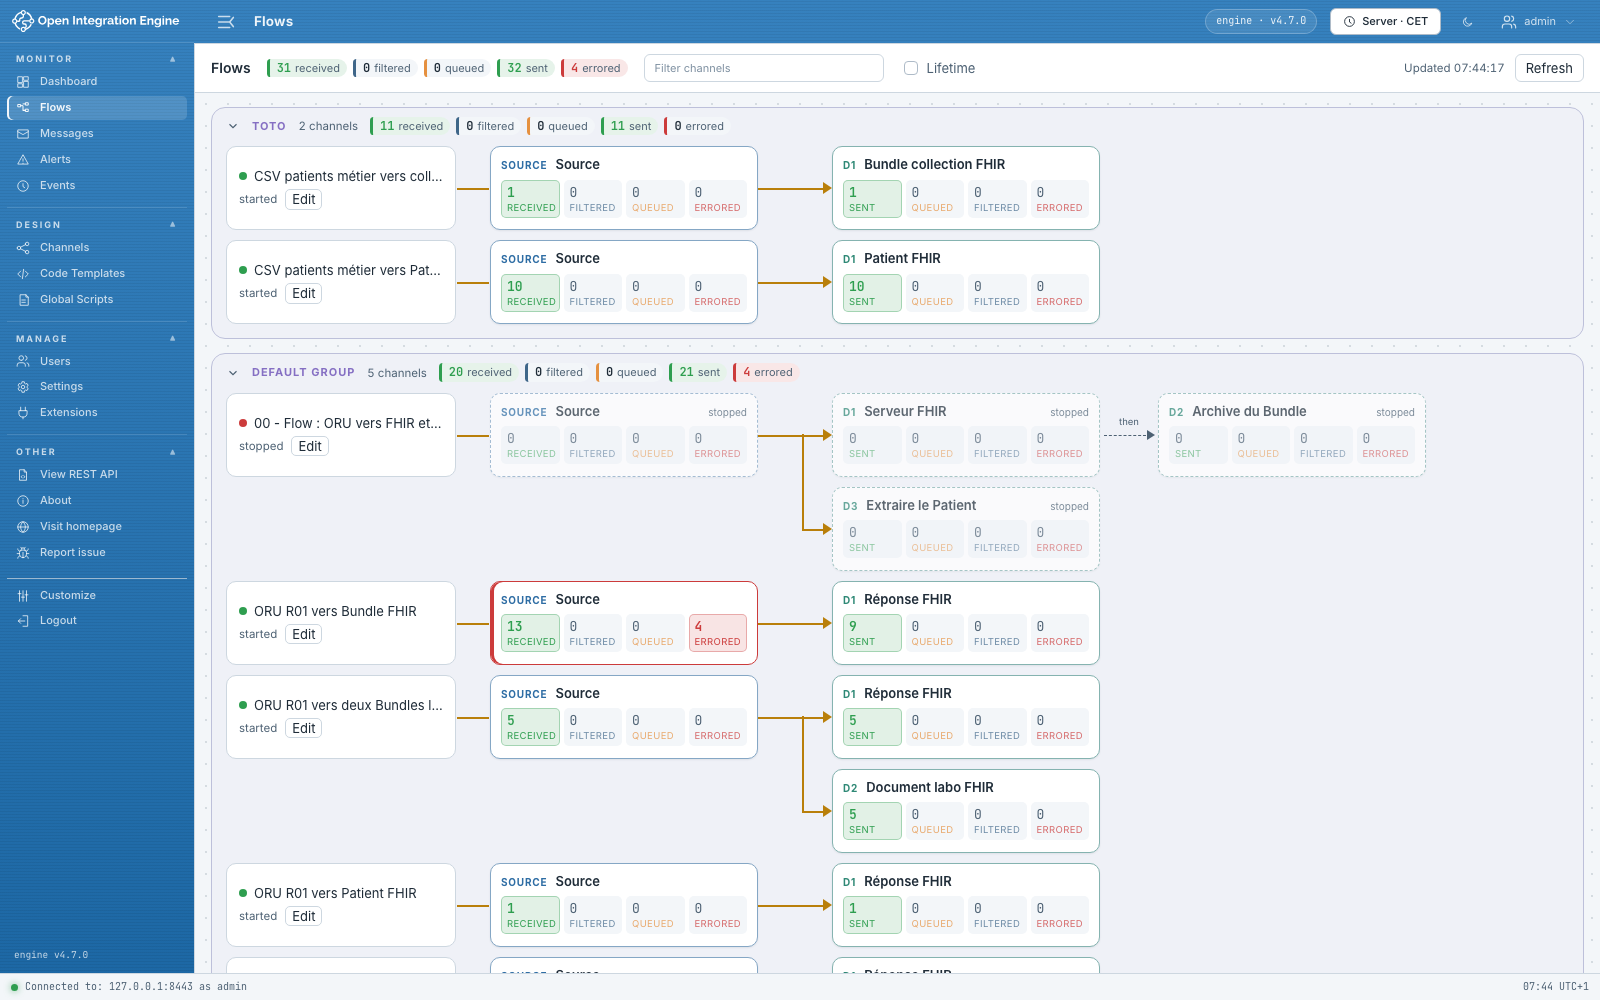
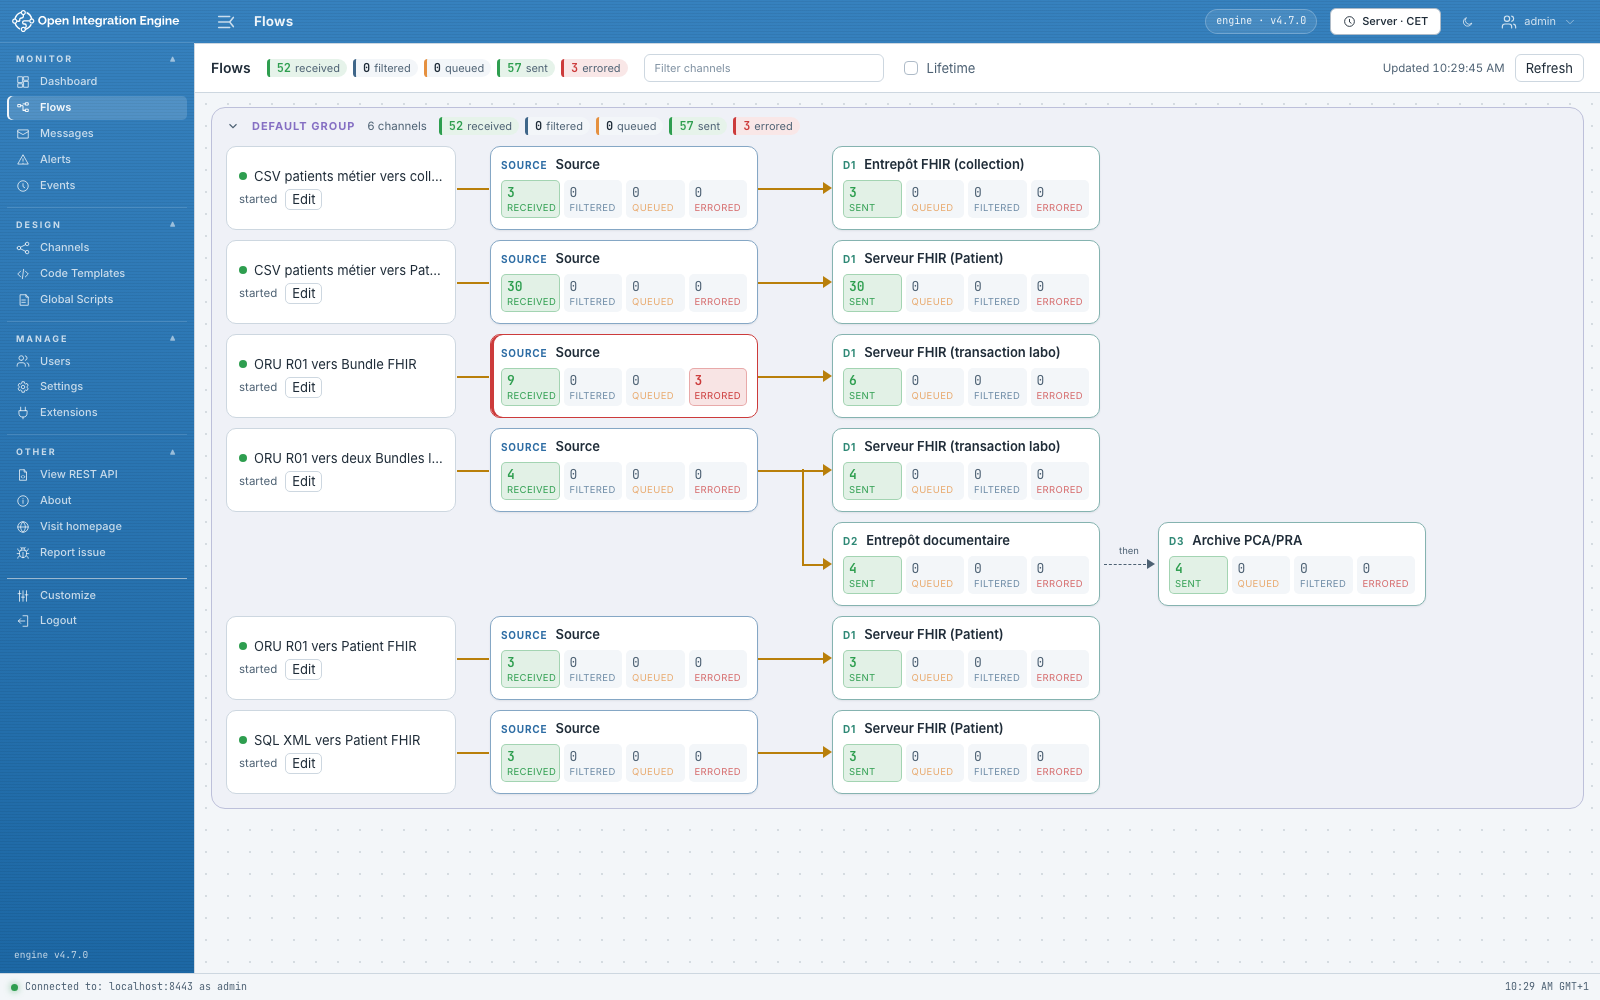
demo: nommer les destinations d'après leur cible, chaînes parallèles et archive PCA/PRA ; Flow : 100% depuis le début du schéma

diff --git a/webadmin/web/channel-flow.js b/webadmin/web/channel-flow.js
@@ -288,6 +288,15 @@ export function arrowPaths(edge) {
 
 // Mouse wheels scroll by lines or by whole notches (wheelDelta multiple of 120)
 // on one axis; trackpads send small pixel deltas, often on both axes.
+/**
+ * The view at actual size: a diagram that fits stays centered; a larger one starts at its
+ * left or top edge, where a message enters, with a margin, instead of overflowing both sides.
+ */
+export function actualSizeView(stageWidth, stageHeight, boxWidth, boxHeight, margin = 24) {
+  const offset = (stage, box) => stage + 2 * margin <= box ? (box - stage) / 2 : margin;
+  return { s: 1, x: offset(stageWidth, boxWidth), y: offset(stageHeight, boxHeight) };
+}
+
 export function isMouseWheel(event) {
   if (event.deltaMode === 1) return true;
   const notch = event.wheelDeltaY ?? event.wheelDelta;
@@ -601,6 +610,12 @@ function ChannelFlow({ channel, platform, onChange, nav }) {
     view.current = { s, x: (box.clientWidth - el.offsetWidth * s) / 2, y: Math.max(0, (box.clientHeight - el.offsetHeight * s) / 2) };
     apply();
   };
+  const actualSize = () => {
+    const el = stage.current, box = vp.current;
+    if (!el || !box) return;
+    view.current = actualSizeView(el.offsetWidth, el.offsetHeight, box.clientWidth, box.clientHeight);
+    apply();
+  };
   const zoomAt = (factor, cx = vp.current.clientWidth / 2, cy = vp.current.clientHeight / 2) => {
     const v = view.current, s = clamp(v.s * factor);
     view.current = { s, x: cx - (cx - v.x) * s / v.s, y: cy - (cy - v.y) * s / v.s };
@@ -699,6 +714,7 @@ function ChannelFlow({ channel, platform, onChange, nav }) {
     if (event.key === "+" || event.key === "=") animated(() => zoomAt(1.25))();
     else if (event.key === "-") animated(() => zoomAt(0.8))();
     else if (event.key === "0") animated(fit)();
+    else if (event.key === "1") animated(actualSize)();
   };
   const types = menu?.mode === "add" ? elementTypes(platform, menu.tile.target) : [];
   const rows = menu ? (menu.mode === "add" ? types.length : menu.tile.items.length) : 0;
@@ -717,7 +733,7 @@ function ChannelFlow({ channel, platform, onChange, nav }) {
         h("output", { ref: zoomOut }, "100%"),
         h("button", { type: "button", "aria-label": "Zoom in", onClick: animated(() => zoomAt(1.25)) }, "+"),
         h("button", { type: "button", onClick: animated(fit) }, "Fit"),
-        h("button", { type: "button", onClick: animated(() => zoomAt(1 / view.current.s)) }, "100%"))),
+        h("button", { type: "button", onClick: animated(actualSize), title: "Actual size, from the start of the flow" }, "100%"))),
     h("div", { className: "oflow-vp", ref: vp, tabIndex: 0, onKeyDown: keys, "aria-label": "Channel flow diagram" },
       h("div", { className: "oflow-stage", ref: stage },
         h("svg", { className: "oflow-wires", ref: wires, "aria-hidden": true }),

diff --git a/demo/examples/check.py b/demo/examples/check.py
@@ -164,7 +164,11 @@ def main():
     assert document["entry"][0]["resource"]["resourceType"] == "Composition"
     shared = {e["fullUrl"]: e["resource"] for e in document["entry"]}
     assert all(shared[e["fullUrl"]] == e["resource"] for e in transaction["entry"])
-    print("OK deux Bundles : transaction 12, document 14, mêmes ressources et identités")
+    # L'archive PCA/PRA suit l'entrepôt documentaire dans sa chaîne et reçoit le même document.
+    archive = connector(message, 3)
+    assert encoded(message, 3) == document
+    assert "archive-pca/labo-document-" in archive.findtext("response/content")
+    print("OK deux Bundles : transaction 12, document 14, mêmes ressources et identités ; document archivé")
 
     patient = json.loads(post("SQL_PATIENT_PORT", 8084, "sql-patient", "patient-result-sql.xml", "application/xml"))
     assert patient["id"] == "metier-1042" and patient["identifier"][0]["value"] == "000123456"

diff --git a/docs/Demo.md b/docs/Demo.md
@@ -63,14 +63,21 @@ HTTP et lit les messages via l'API OIE, sans modifier les canaux.
 |---|---|---|
 | 8081 | `/oru/` | Bundle transaction de 12 ressources, ou 4 pour l'ORU minimal |
 | 8082 | `/patient/` | Patient conforme au profil d'exemple |
-| 8083 | `/labo/` | Transaction de 12 ressources et document de 14, identités partagées |
+| 8083 | `/labo/` | Transaction de 12 ressources et document de 14, identités partagées, document archivé |
 | 8084 | `/sql-patient/` | Ligne XML SQL vers Patient, accents et zéros initiaux conservés |
 | 8085 | `/csv-patients/` | Dix messages Patient après nettoyage du CSV ; dernier Patient en réponse HTTP |
 | 8086 | `/csv-patients-collection/` | Un Bundle collection contenant les dix Patients |
 
+Les destinations portent le nom du système visé, simulé par un JavaScript Writer :
+*Serveur FHIR*, *Entrepôt FHIR*, *Entrepôt documentaire*, *Archive PCA/PRA*. Le canal
+labo montre aussi deux chaînes de destinations dans **Flow** et **Flows** : le serveur
+FHIR reçoit la transaction en parallèle de l'entrepôt documentaire, suivi de l'archive
+PCA/PRA. Un filtre n'archive le document que si l'entrepôt l'a accepté ; l'archive
+l'écrit dans `appdata/archive-pca/labo-document-<message>.json`.
+
 Le document du canal labo est conservé dans `channelMap["bundleDocument"]`
-et dans le contenu *Encoded* de sa deuxième destination. Le script vérifie
-ses références et l'identité des douze ressources communes à la transaction.
+et dans le contenu *Encoded* de l'entrepôt documentaire et de l'archive. Le script
+vérifie ses références et l'identité des douze ressources communes à la transaction.
 Il vérifie aussi la traduction locale GLU vers LOINC et le refus de l'ORU sans
 date de naissance : réponse HTTP vide, message OIE en `ERROR` mentionnant
 `birthDate`. Ce dernier message d'erreur est donc attendu après le contrôle.

diff --git a/docs/Channel-Flow.md b/docs/Channel-Flow.md
@@ -36,7 +36,9 @@ Flow s’ouvre à chaque entrée dans l’éditeur du canal, y compris au retour
 s’il y a plusieurs chaînes, sinon Line. Le choix est mémorisé dans le navigateur.
 
 Zoom : molette de souris (autour du pointeur), pincement, boutons `−` / `+`, *Fit*,
-*100%*, ou touches `+`, `-`, `0` quand le schéma a le focus. Le défilement à deux
+*100%*, ou touches `+`, `-`, `0` (Fit), `1` (100%) quand le schéma a le focus. *100%*
+affiche la taille réelle à partir du début du schéma (bord gauche et haut, là où entre
+le message) ; un schéma qui tient dans la vue reste centré. Le défilement à deux
 doigts sur un pavé tactile et le glisser déplacent le schéma.
 
 Un filtre, un transformer ou une response affiche ses 5 premières étapes ; la hauteur
